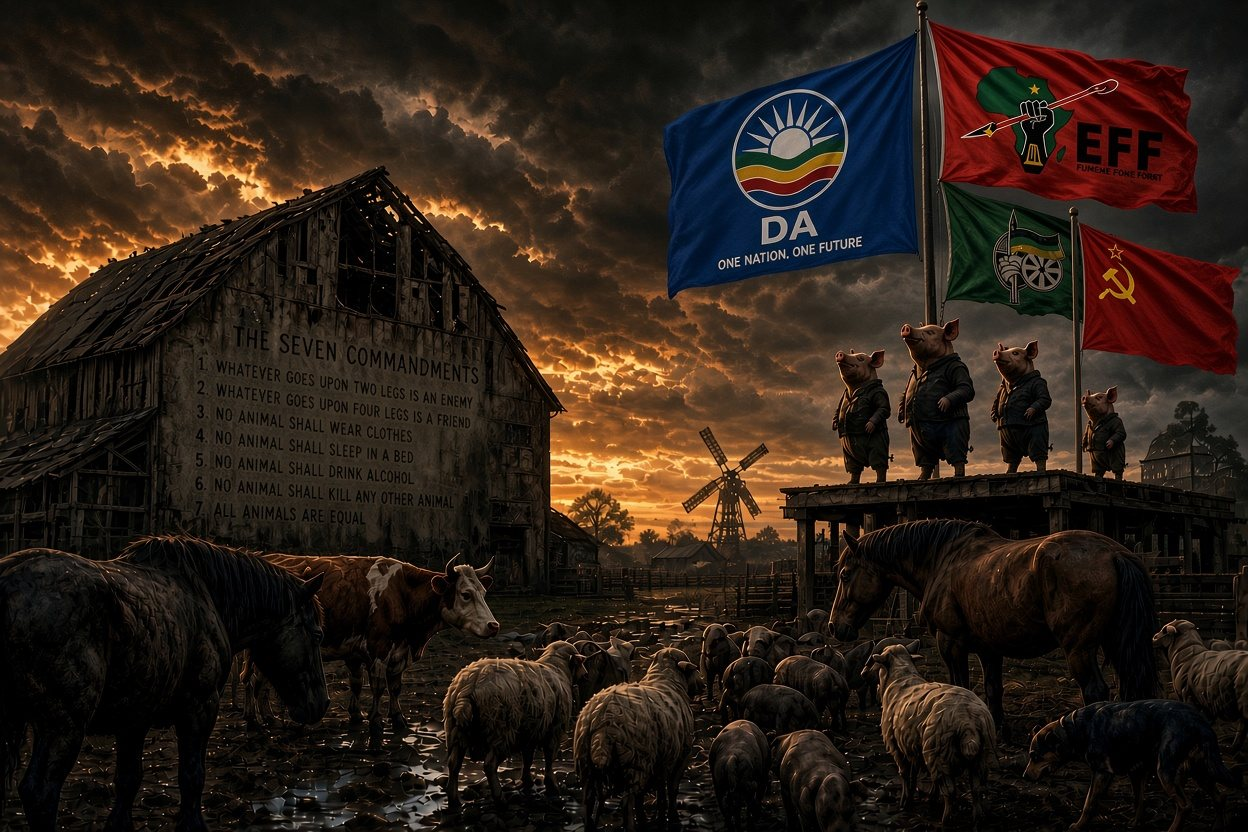
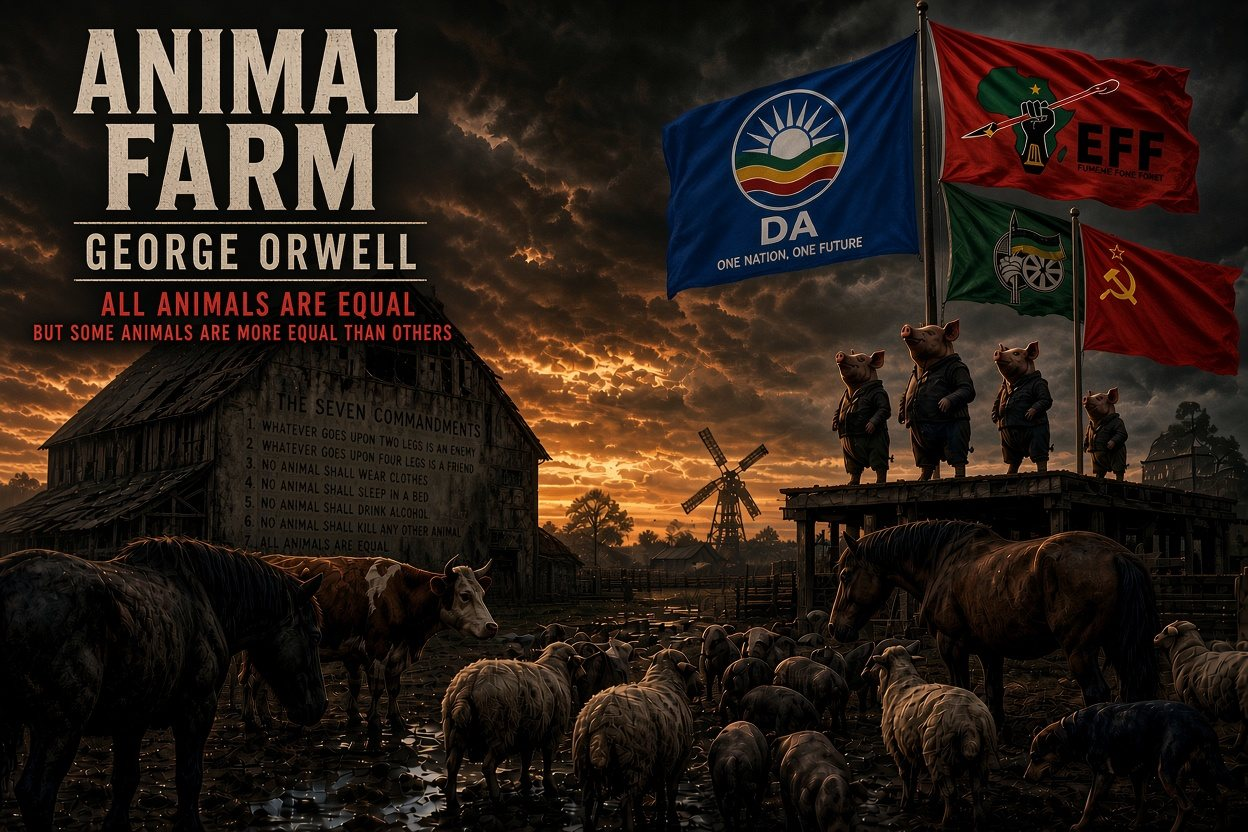
Use the new version of the heading picture, with the Animal Farm title on it

diff --git a/resources/views/site/home.blade.php b/resources/views/site/home.blade.php
@@ -38,7 +38,7 @@
                 '@id' => $site.'/#game',
                 'name' => config('app.name'),
                 'url' => $site.'/',
-                'image' => url('/images/poster.jpg?v=2'),
+                'image' => url('/images/poster.jpg?v=3'),
                 'description' => 'A free online multiplayer strategy game inspired by George Orwell\'s Animal Farm. Pick an animal, join a faction, raid rivals, rule the Farmhouse and rewrite the laws.',
                 'genre' => ['Strategy', 'Role-playing', 'Massively multiplayer online'],
                 'gamePlatform' => ['Web browser', 'Android', 'iOS', 'Windows', 'macOS'],
@@ -67,9 +67,9 @@
     {{-- The poster, melting into the page on every side --}}
     <section class="relative overflow-hidden">
         <picture>
-            <source media="(max-width: 700px)" srcset="/images/poster-640.jpg?v=2">
-            <img src="/images/poster.jpg?v=2" width="1248" height="832" fetchpriority="high"
-                alt="Pigs in coats stand on a platform under party flags, above a muddy yard of horses, cows, sheep and a dog, beside a crumbling barn painted with the Seven Commandments, under a stormy orange sky."
+            <source media="(max-width: 700px)" srcset="/images/poster-640.jpg?v=3">
+            <img src="/images/poster.jpg?v=3" width="1248" height="832" fetchpriority="high"
+                alt="Animal Farm by George Orwell: all animals are equal, but some animals are more equal than others. Pigs in coats stand on a platform under party flags, above a muddy yard of horses, cows, sheep and a dog, beside a crumbling barn painted with the Seven Commandments, under a stormy orange sky."
                 class="poster-melt mx-auto block h-auto w-full max-w-[1280px]">
         </picture>
         <div class="relative mx-auto -mt-[7%] flex max-w-[1200px] flex-wrap items-center justify-center gap-3 px-[clamp(16px,4vw,40px)] pb-6">

diff --git a/resources/views/site/layout.blade.php b/resources/views/site/layout.blade.php
@@ -24,12 +24,12 @@
         <meta property="og:description" content="@yield('description')">
         <meta property="og:url" content="@yield('canonical', url()->current())">
         {{-- The poster is the picture a shared link shows. --}}
-        <meta property="og:image" content="{{ url('/images/poster.jpg?v=2') }}">
+        <meta property="og:image" content="{{ url('/images/poster.jpg?v=3') }}">
         <meta property="og:image:width" content="1248">
         <meta property="og:image:height" content="832">
         <meta property="og:image:alt" content="The animals of Animal Farm">
         <meta name="twitter:card" content="summary_large_image">
-        <meta name="twitter:image" content="{{ url('/images/poster.jpg?v=2') }}">
+        <meta name="twitter:image" content="{{ url('/images/poster.jpg?v=3') }}">
         <meta name="theme-color" content="#16171D">
 
         <link rel="icon" href="/favicon.ico" sizes="any">

diff --git a/resources/views/app.blade.php b/resources/views/app.blade.php
@@ -10,11 +10,11 @@
         <meta property="og:title" content="{{ config('app.name') }}">
         <meta property="og:description" content="A farm of rival factions. Gather, raid, rob and rule the valley.">
         <meta property="og:url" content="{{ url()->current() }}">
-        <meta property="og:image" content="{{ url('/images/poster.jpg?v=2') }}">
+        <meta property="og:image" content="{{ url('/images/poster.jpg?v=3') }}">
         <meta property="og:image:width" content="1248">
         <meta property="og:image:height" content="832">
         <meta name="twitter:card" content="summary_large_image">
-        <meta name="twitter:image" content="{{ url('/images/poster.jpg?v=2') }}">
+        <meta name="twitter:image" content="{{ url('/images/poster.jpg?v=3') }}">
 
         {{-- Inline script to detect system dark mode preference and apply it immediately --}}
         <script>
